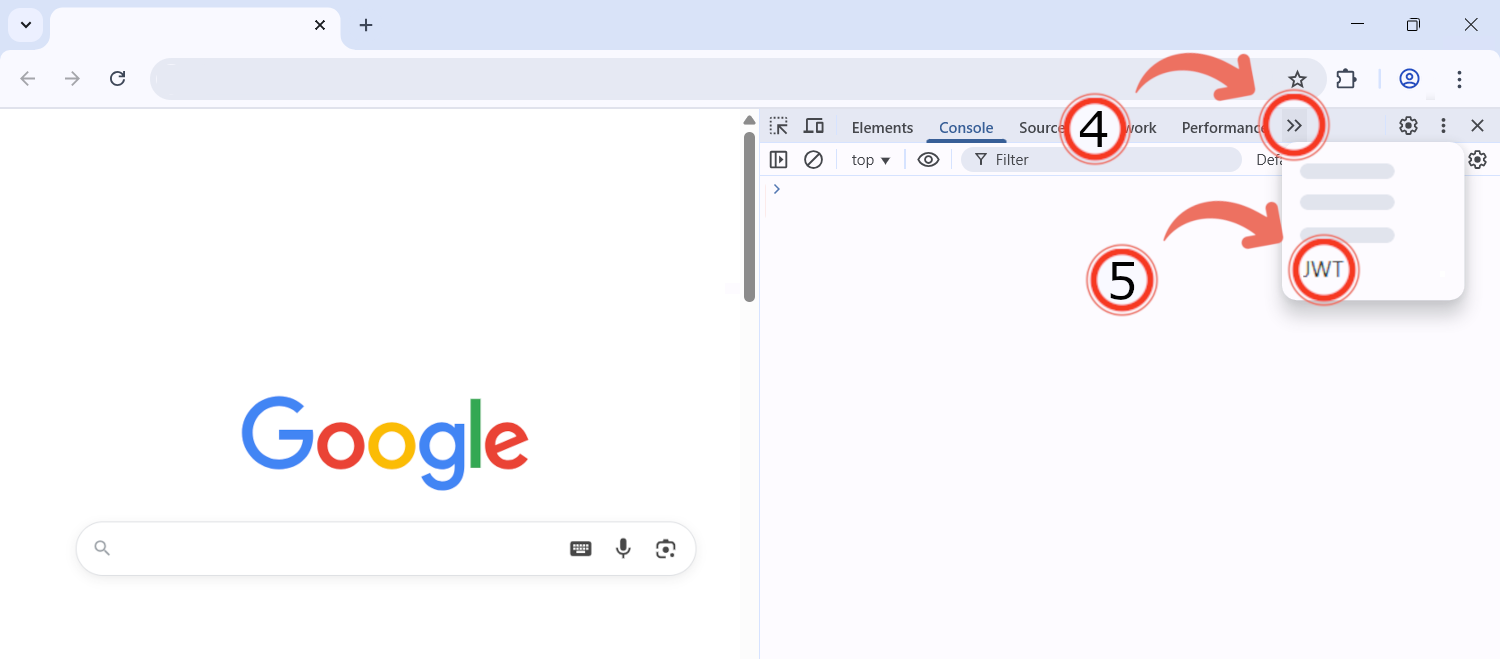
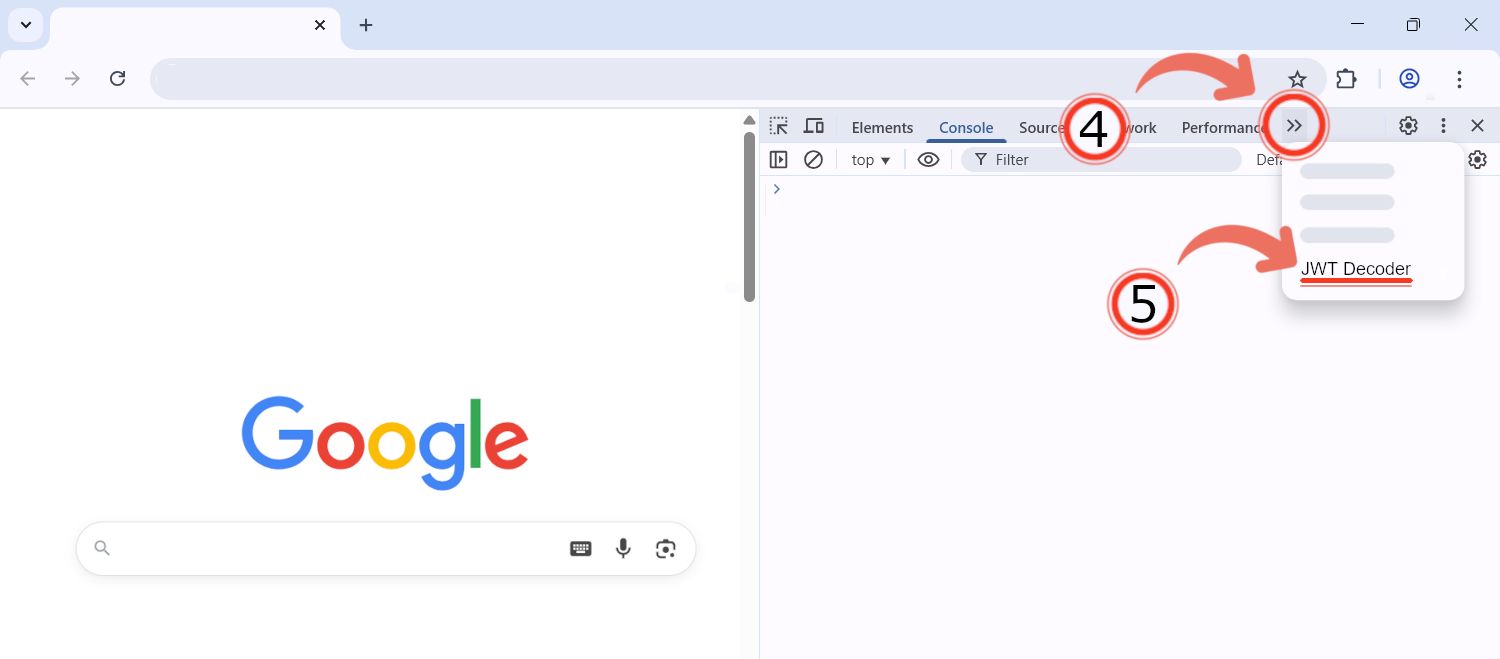
change second image and name in the dev tools panel

Changed region(s): [[0.7053, 0.3035, 0.9507, 0.5159]]

diff --git a/index.html b/index.html
@@ -20,7 +20,7 @@
         alt="how to find dev tools" />
     </div>
     <div class="subtitle" id="step4">
-      Click the arrow to show more options (4), then click 'JWT' (5):
+      Click the arrow to show more options (4), then click 'JWT Decoder' (5):
     </div>
     <div class="image-area">
       <img
